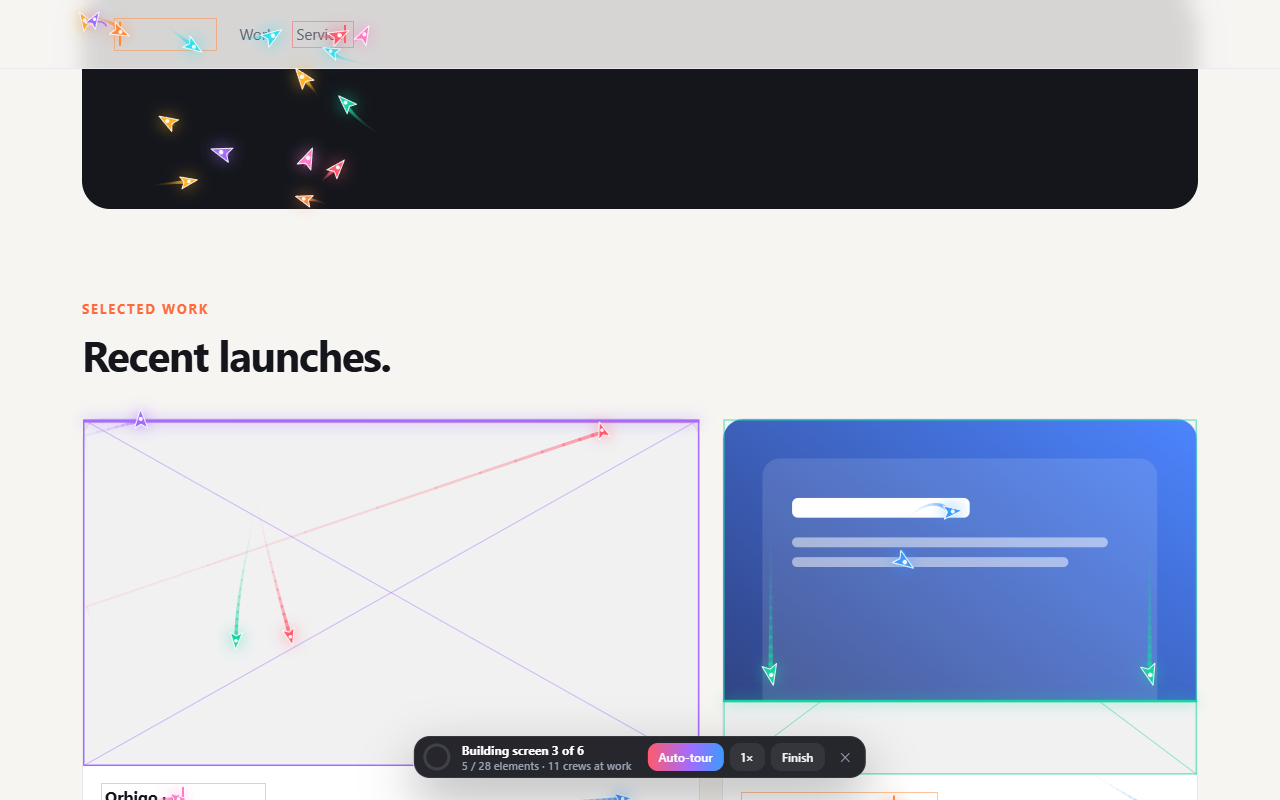
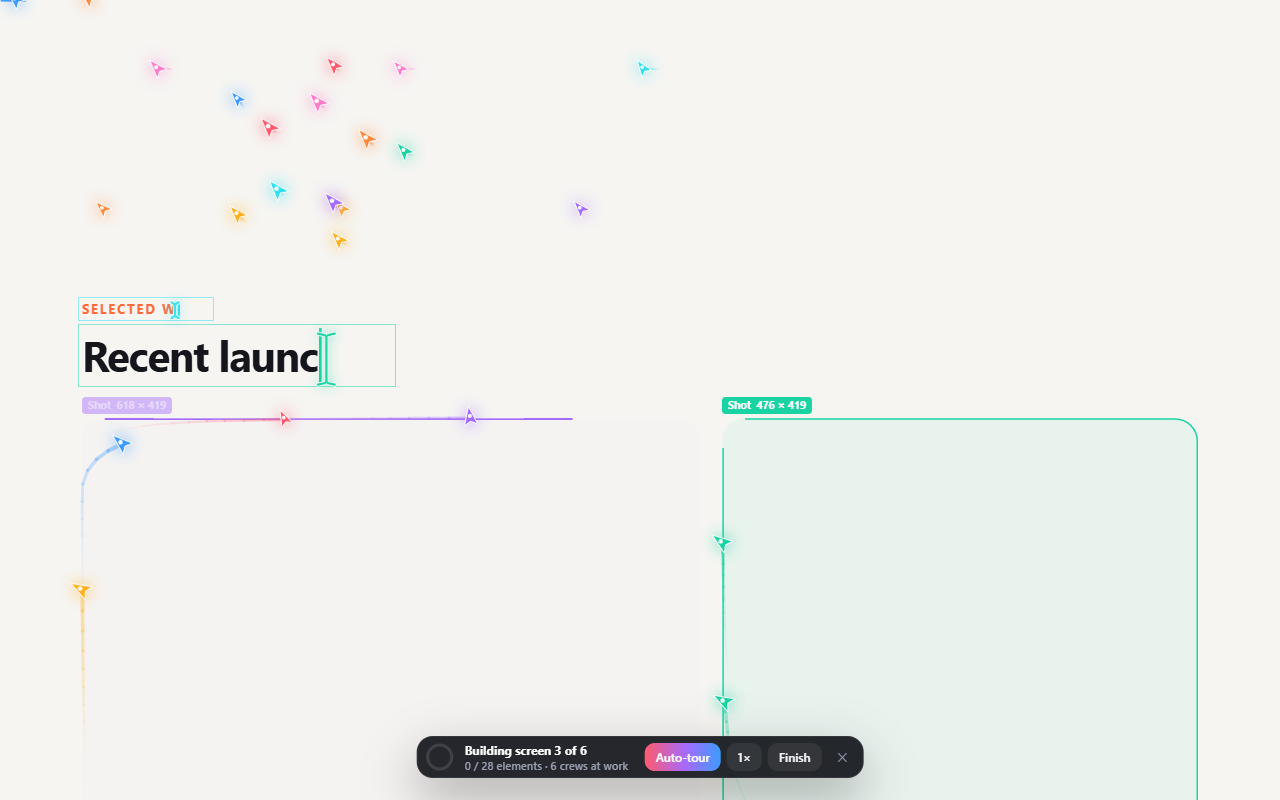
Hand-like cursor motion and a text cursor while typing
- Every trip is a planned move: a gentle arc with a minimum-jerk ease,
  longer trips take longer, followed through a soft spring (no snapping)
- Pointers keep a natural tilt and only lean a little into fast moves,
  instead of spinning to face their direction
- Slower, calmer rings with a little personal drift; slower outline tracing
- The lead of a line being typed turns into an I-beam sized to the text,
  glides between letters and hops to each new line while typing waits
- Store graphics and package rebuilt

diff --git a/extension/swarmline.js b/extension/swarmline.js
@@ -41,6 +41,14 @@
   const easeOut = (t) => 1 - Math.pow(1 - t, 3);
   const easeInOut = (t) => (t < 0.5 ? 4 * t * t * t : 1 - Math.pow(-2 * t + 2, 3) / 2);
   const easeSine = (t) => (1 - Math.cos(Math.PI * t)) / 2;
+  // minimum-jerk profile: how a hand moves a pointer (eases in and out, no sudden starts)
+  const minJerk = (t) => t * t * t * (t * (t * 6 - 15) + 10);
+  const smooth01 = (a, b, x) => {
+    const t = clamp((x - a) / (b - a), 0, 1);
+    return t * t * (3 - 2 * t);
+  };
+  const angDiff = (a, b) => ((((a - b + Math.PI) % TAU) + TAU) % TAU) - Math.PI;
+  const REST = -2.3; // a pointer's natural tilt: tip up and to the left
   const reduced = () => {
     try {
       return matchMedia("(prefers-reduced-motion: reduce)").matches;
@@ -812,12 +820,12 @@ canvas.off{pointer-events:none}
       }
 
       // work waits (briefly) for its crew to arrive, so the swarm visibly does it
-      const ready = (u) => !u.lead || u.lead.attached || (u.waitT = (u.waitT || 0) + sdt) > 0.6;
+      const ready = (u) => !u.lead || u.lead.attached || (u.waitT = (u.waitT || 0) + sdt) > 1.8;
       for (const u of this.active) {
         if (u.state !== 1) continue;
         if (u.kind === "box") {
           if (u.phase === 0) {
-            if (ready(u)) u.p += sdt / 0.42;
+            if (ready(u)) u.p += sdt / (0.6 + Math.min(0.5, (u.w + u.h) / 2400));
             if (u.p >= 1) {
               u.phase = 1;
               u.p = 0;
@@ -839,14 +847,17 @@ canvas.off{pointer-events:none}
             }
           } else {
             // typing: a natural, slightly uneven rhythm; long paragraphs speed up
-            const rate = Math.max(42, u.total / 1.2) * (0.75 + Math.random() * 0.6);
-            u.typed = Math.min(u.total, u.typed + rate * sdt);
+            const rate = Math.max(34, u.total / 2) * (0.75 + Math.random() * 0.6);
+            // like a carriage return: typing waits while the text cursor hops to the next line
+            const L = u.lead;
+            const hop = L && L.attached && L.move && L.move.hop && L.move.t < 0.85;
+            if (!hop) u.typed = Math.min(u.total, u.typed + rate * sdt);
             if (u.mode !== "fade") st.clip(u.el, this.typedPath(u, Math.floor(u.typed)));
             if (u.typed >= u.total) this.complete(u);
           }
         } else if (u.kind === "media" || u.kind === "control") {
           if (u.phase === 0) {
-            if (ready(u)) u.p += sdt / 0.38;
+            if (ready(u)) u.p += sdt / 0.5;
             if (u.p >= 1) {
               u.phase = 1;
               u.p = 0;
@@ -998,7 +1009,7 @@ canvas.off{pointer-events:none}
         this.nibs.push({
           i, unit: null, role: 0, attached: false, vis: 0, color: PALETTE[i % PALETTE.length],
           x: this.W / 2 + Math.cos(a) * 6, y: this.H / 2 + Math.sin(a) * 6,
-          vx: Math.cos(a) * (700 + (i % 4) * 160), vy: Math.sin(a) * (700 + (i % 4) * 160), ang: a,
+          vx: 0, vy: 0, ang: REST, tool: 0, goal: null, move: null, hand: i % 2 ? 1 : -1,
           trail: [], seed: Math.random() * Math.PI * 2, born: 0.55 + i * 0.012, size: 1.2 + (i % 3) * 0.14,
           ring: i % 3 === 2 ? 1 : 0, orb: a, orbiting: false,
         });
@@ -1032,7 +1043,7 @@ canvas.off{pointer-events:none}
       const total = free.length;
       const R0 = clamp(54 + total * 4.2, 74, 150);
       const radii = [R0, R0 * 0.56];
-      const speeds = [0.85, -1.25];
+      const speeds = [0.3, -0.42];
       const cx = clamp(this.anchor[0], R0 + 24, W - R0 - 24);
       const cy = clamp(this.anchor[1], R0 + 24, H - R0 - 96);
       const out = new Map();
@@ -1113,14 +1124,20 @@ canvas.off{pointer-events:none}
         return this.perim(R, easeInOut(u.phase === 0 ? k : 1) - n.role * 0.09);
       }
       if (u.kind === "text") {
-        const c = this.caretAt(u, u.typed);
-        if (n.role === 0) return [R.x + c.x + 4, R.y + c.y + c.h * 0.62];
+        // glide between letters rather than stepping (same line only)
+        let c = this.caretAt(u, u.typed);
+        const c2 = this.caretAt(u, Math.min(u.total, Math.floor(u.typed) + 1));
+        if (c2.y === c.y) c = { x: c.x + (c2.x - c.x) * (u.typed % 1), y: c.y, h: c.h };
+        if (n.role === 0) {
+          n.beamH = c.h; // the text cursor matches the size of the line being typed
+          return [R.x + c.x + Math.max(6, c.h * 0.14), R.y + c.y + c.h * 0.5 + Math.min(4, c.h * 0.08)];
+        }
         // a helper hovers a little ahead, where the next words go
         const ahead = this.caretAt(u, Math.min(u.total, u.typed + 14));
         return [R.x + ahead.x + 10, R.y + ahead.y - 6];
       }
       if (u.kind === "glyph") {
-        const a = this.time * 7 + n.role * 2.1;
+        const a = this.time * 3 + n.role * 2.1;
         const rr = Math.hypot(R.w, R.h) / 2 + 6;
         return [R.x + R.w / 2 + Math.cos(a) * rr, R.y + R.h / 2 + Math.sin(a) * rr];
       }
@@ -1129,89 +1146,112 @@ canvas.off{pointer-events:none}
       return [R.x + R.w * [0.1, 0.9, 0.5, 0.3][n.role % 4], R.y + R.h * c];
     }
 
-    stepSwarm(rects, v) {
+    // where a nib is headed this frame and why; a new "why" starts a new move
+    goalOf(n, rects, orbit) {
+      const R = n.unit && rects.get(n.unit);
+      if (R) return { key: n.unit, p: this.workPoint(n, n.unit, R), work: true };
+      const o = orbit.get(n);
+      if (o) {
+        // a little personal drift, so the rings feel alive rather than mechanical
+        const t = this.time;
+        return { key: "orbit", p: [o[0] + Math.sin(t * 0.7 + n.seed) * 6, o[1] + Math.cos(t * 0.55 + n.seed * 1.3) * 5], work: false };
+      }
+      return { key: "anchor", p: this.anchor.slice(), work: false };
+    }
+
+    stepSwarm(rects) {
       const dt = this.dt;
       const W = this.W;
       const H = this.H;
-      const want = this.nextSpot(rects, v);
+      const want = this.nextSpot(rects, this.env.view());
       if (!this.anchor) this.anchor = [W / 2, H * 0.45];
-      const ak = 1 - Math.exp(-dt * 3);
+      const ak = 1 - Math.exp(-dt * 1.6);
       this.anchor[0] += (want[0] - this.anchor[0]) * ak;
       this.anchor[1] += (want[1] - this.anchor[1]) * ak;
-      let sweepY = null;
-      if (this.sweep) sweepY = this.sweep.vTop + (this.sweep.vBottom - this.sweep.vTop) * easeInOut(this.sweep.p);
       const free = this.nibs.filter((n) => !n.unit || !rects.get(n.unit));
-      const orbit = !this.outro && sweepY == null ? this.orbitTargets(free, dt) : null;
+      const orbit = this.outro ? new Map() : this.orbitTargets(free, dt);
+      const pace = 0.75 + 0.25 * this.speed;
       for (const n of this.nibs) {
-        n.vis = this.time < n.born ? 0 : Math.min(1, n.vis + dt / 0.3);
-        let tx;
-        let ty;
-        let stick = false;
-        const R = n.unit && rects.get(n.unit);
-        const target = orbit && orbit.get(n);
-        if (!target) n.orbiting = false;
+        n.vis = this.time < n.born ? 0 : Math.min(1, n.vis + dt / 0.4);
+        if (!orbit.has(n)) n.orbiting = false;
+        const ox = n.x;
+        const oy = n.y;
+        let working = false;
         if (this.outro) {
-          // the rings unwind: each nib spirals out and away
-          const a = (Math.atan2(n.y - H / 2, n.x - W / 2) || n.seed) + 0.8;
-          tx = n.x + Math.cos(a) * 900;
-          ty = n.y + Math.sin(a) * 900;
-        } else if (R) {
-          [tx, ty] = this.workPoint(n, n.unit, R);
-          if (!n.attached && Math.hypot(tx - n.x, ty - n.y) < 16) n.attached = true;
-          stick = n.attached;
-        } else if (sweepY != null) {
-          const j = free.indexOf(n);
-          tx = v.x + (v.w * (j + 0.5)) / Math.max(1, free.length);
-          ty = sweepY + Math.sin(this.time * 6 + j) * 6;
-        } else if (target) {
-          [tx, ty] = target;
+          // the swarm drifts outward and away, gathering pace
+          if (n.outA == null) n.outA = (Math.atan2(n.y - H / 2, n.x - W / 2) || n.seed) + 0.5 * n.hand;
+          const sp = 120 + 1300 * this.outro.t * this.outro.t;
+          n.x += Math.cos(n.outA) * sp * dt;
+          n.y += Math.sin(n.outA) * sp * dt;
         } else {
-          tx = this.anchor[0];
-          ty = this.anchor[1];
-        }
-        if (stick) {
-          const k = 1 - Math.exp(-dt * 36);
-          const nx = n.x + (tx - n.x) * k;
-          const ny = n.y + (ty - n.y) * k;
-          n.vx = (nx - n.x) / Math.max(dt, 1e-3);
-          n.vy = (ny - n.y) / Math.max(dt, 1e-3);
-          n.x = nx;
-          n.y = ny;
-        } else {
-          const dx = tx - n.x;
-          const dy = ty - n.y;
-          const d = Math.hypot(dx, dy) || 1;
-          // arrive smoothly: fast across the page, easing off as it closes in
-          const sp = Math.min(2200, d * 6.2);
-          let ax = ((dx / d) * sp - n.vx) * 9;
-          let ay = ((dy / d) * sp - n.vy) * 9;
-          for (const m of this.nibs) {
-            if (m === n || (n.orbiting && m.orbiting)) continue; // the rings keep their own spacing
-            const ex = n.x - m.x;
-            const ey = n.y - m.y;
-            const e = ex * ex + ey * ey;
-            if (e < 576 && e > 0.01) {
-              const s = Math.sqrt(e);
-              const push = 1400 * (1 - s / 24);
-              ax += (ex / s) * push;
-              ay += (ey / s) * push;
+          const G = this.goalOf(n, rects, orbit);
+          working = G.work;
+          if (G.key !== n.goal) {
+            // plan a new move: a gentle arc, longer for longer trips (like a hand)
+            n.goal = G.key;
+            const dx = G.p[0] - n.x;
+            const dy = G.p[1] - n.y;
+            const d = Math.hypot(dx, dy);
+            const bend = d * (0.08 + Math.random() * 0.14) * (Math.random() < 0.8 ? n.hand : -n.hand);
+            n.move = d < 4 ? null : {
+              sx: n.x, sy: n.y, t: 0,
+              dur: ((0.42 + 0.2 * Math.log2(1 + d / 50)) * (0.9 + Math.random() * 0.25)) / pace,
+              bx: (-dy / (d || 1)) * bend, by: (dx / (d || 1)) * bend,
+            };
+            n.attached = false;
+          } else if (working && n.last && Math.hypot(G.p[0] - n.last[0], G.p[1] - n.last[1]) > 40) {
+            // the work point leapt (a new line, the next edge): hop there in a quick, eased move
+            const d = Math.hypot(G.p[0] - n.x, G.p[1] - n.y);
+            n.move = { sx: n.x, sy: n.y, t: 0, hop: true, dur: (0.16 + 0.05 * Math.log2(1 + d / 50)) / pace, bx: 0, by: -Math.min(24, d * 0.12) };
+          }
+          n.last = G.p;
+          let px = G.p[0];
+          let py = G.p[1];
+          const M = n.move;
+          if (M && M.t < 1) {
+            M.t = Math.min(1, M.t + dt / M.dur);
+            const e = minJerk(M.t);
+            const cx = (M.sx + px) / 2 + M.bx;
+            const cy = (M.sy + py) / 2 + M.by;
+            const i = 1 - e;
+            px = i * i * M.sx + 2 * i * e * cx + e * e * px;
+            py = i * i * M.sy + 2 * i * e * cy + e * e * py;
+          }
+          if (working && !n.attached && (!M || M.t >= 0.9)) n.attached = true;
+          // follow the plan through a soft spring, so even jumps in the plan come out smooth
+          // (on the job it holds tight, so it stays right on the caret or the line it traces)
+          const k = 1 - Math.exp(-dt * (working && n.attached ? 34 : 10));
+          n.x += (px - n.x) * k;
+          n.y += (py - n.y) * k;
+          if (!working) {
+            // keep a little personal space while travelling
+            for (const m of this.nibs) {
+              if (m === n || (n.orbiting && m.orbiting)) continue;
+              const ex = n.x - m.x;
+              const ey = n.y - m.y;
+              const q2 = ex * ex + ey * ey;
+              if (q2 < 484 && q2 > 0.01) {
+                const q = Math.sqrt(q2);
+                n.x += (ex / q) * (22 - q) * Math.min(1, dt * 3);
+                n.y += (ey / q) * (22 - q) * Math.min(1, dt * 3);
+              }
             }
           }
-          const am = Math.hypot(ax, ay) || 1;
-          const step = Math.min(8200 * dt, am * dt);
-          n.vx += (ax / am) * step;
-          n.vy += (ay / am) * step;
-          n.x += n.vx * dt;
-          n.y += n.vy * dt;
         }
-        // turn smoothly towards the direction of travel (no snapping or jitter)
-        if (Math.hypot(n.vx, n.vy) > 30) {
-          let da = Math.atan2(n.vy, n.vx) - n.ang;
-          da = ((da + Math.PI) % TAU + TAU) % TAU - Math.PI;
-          n.ang += da * (1 - Math.exp(-dt * (stick ? 9 : 14)));
-        }
+        // velocity (smoothed) drives a gentle lean into the direction of travel
+        const iv = 1 / Math.max(dt, 1e-3);
+        const vk = 1 - Math.exp(-dt * 8);
+        n.vx += ((n.x - ox) * iv - n.vx) * vk;
+        n.vy += ((n.y - oy) * iv - n.vy) * vk;
+        const spd = Math.hypot(n.vx, n.vy);
+        const lean = 0.6 * smooth01(160, 900, spd);
+        const aim = spd > 1 ? REST + angDiff(Math.atan2(n.vy, n.vx), REST) * lean : REST;
+        n.ang += angDiff(aim, n.ang) * (1 - Math.exp(-dt * 5));
+        // the lead of a line being typed becomes a text cursor
+        const typing = working && n.attached && n.role === 0 && n.unit.kind === "text" && n.unit.phase === 1;
+        n.tool += ((typing ? 1 : 0) - n.tool) * (1 - Math.exp(-dt * 9));
         n.trail.push(n.x, n.y);
-        if (n.trail.length > 36) n.trail.splice(0, 2);
+        if (n.trail.length > 28) n.trail.splice(0, 2);
       }
     }
 
@@ -1226,8 +1266,8 @@ canvas.off{pointer-events:none}
         g.strokeStyle = n.color;
         for (let i = 1; i < segs; i++) {
           const f = i / segs;
-          g.globalAlpha = a * f * f * 0.7;
-          g.lineWidth = (0.6 + 2.6 * f) * n.size;
+          g.globalAlpha = a * f * f * 0.45 * (1 - n.tool);
+          g.lineWidth = (0.6 + 2.2 * f) * n.size;
           g.beginPath();
           g.moveTo(T[i * 2 - 2], T[i * 2 - 1]);
           g.lineTo(T[i * 2], T[i * 2 + 1]);
@@ -1238,10 +1278,13 @@ canvas.off{pointer-events:none}
         const a = alpha * n.vis * fade;
         if (a < 0.02) continue;
         const s = n.size;
-        g.globalAlpha = a;
+        if (n.tool > 0.02) this.drawIBeam(g, n, a * n.tool);
+        if (n.tool > 0.98) continue;
+        g.globalAlpha = a * (1 - n.tool);
         g.save();
         g.translate(n.x, n.y);
         g.rotate(n.ang);
+        if (n.tool > 0) g.scale(1 - 0.5 * n.tool, 1 - 0.5 * n.tool);
         // soft glow, then an arrow head with a crisp light edge and a bright core
         g.shadowColor = n.color;
         g.shadowBlur = 16;
@@ -1267,6 +1310,36 @@ canvas.off{pointer-events:none}
       g.globalAlpha = 1;
       g.lineWidth = 1;
       g.lineCap = "butt";
+    }
+
+    // a text cursor (I-beam) in the nib's colour, with a light edge so it reads on any page
+    drawIBeam(g, n, a) {
+      const s = n.size;
+      const h = clamp((n.beamH || 20) * 0.46, 8, 30) * (0.7 + 0.3 * n.tool);
+      const w = clamp(h * 0.36, 3, 7) * Math.min(1.2, s);
+      g.save();
+      g.globalAlpha = a;
+      g.translate(n.x, n.y);
+      g.lineCap = "round";
+      g.lineJoin = "round";
+      g.beginPath();
+      g.moveTo(-w, -h);
+      g.quadraticCurveTo(0, -h + 1.5, 0, -h + 3);
+      g.quadraticCurveTo(0, -h + 1.5, w, -h);
+      g.moveTo(0, -h + 3);
+      g.lineTo(0, h - 3);
+      g.moveTo(-w, h);
+      g.quadraticCurveTo(0, h - 1.5, 0, h - 3);
+      g.quadraticCurveTo(0, h - 1.5, w, h);
+      g.strokeStyle = "rgba(255,255,255,0.9)";
+      g.lineWidth = 4.4;
+      g.stroke();
+      g.shadowColor = n.color;
+      g.shadowBlur = 12;
+      g.strokeStyle = n.color;
+      g.lineWidth = 2.2;
+      g.stroke();
+      g.restore();
     }
 
     // ---------------------------------------------------------------- drawing
@@ -1315,7 +1388,7 @@ canvas.off{pointer-events:none}
         g.fillStyle = hl;
         g.fillRect(v.x, e - 1, v.w, 2);
       }
-      this.stepSwarm(rects, v);
+      this.stepSwarm(rects);
       const sheetA = this.intro < 1 ? clamp((this.intro - 0.5) / 0.5, 0, 1) : 1;
       this.drawSwarm(g, sheetA);
     }
